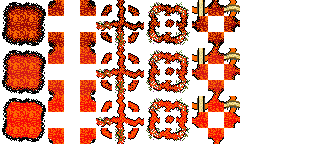
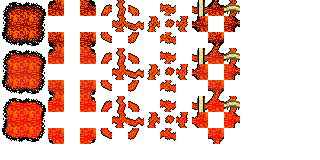
#78 - Added animations to lava rivers.

diff --git a/src/integration_test/TestLavaRivers.java b/src/integration_test/TestLavaRivers.java
@@ -1,11 +1,14 @@
 package integration_test;
 
+import antonafanasjew.cosmodog.domains.WeaponType;
 import antonafanasjew.cosmodog.globals.CosmodogModelHolder;
 import antonafanasjew.cosmodog.model.actors.Player;
 import antonafanasjew.cosmodog.model.actors.Vehicle;
+import antonafanasjew.cosmodog.model.inventory.BinocularsInventoryItem;
 import antonafanasjew.cosmodog.model.inventory.DebuggerInventoryItem;
 import antonafanasjew.cosmodog.model.inventory.InventoryItemType;
 import antonafanasjew.cosmodog.model.inventory.VehicleInventoryItem;
+import antonafanasjew.cosmodog.model.upgrades.Weapon;
 import antonafanasjew.cosmodog.player.AbstractPlayerBuilder;
 import antonafanasjew.cosmodog.player.PlayerBuilder;
 import org.newdawn.slick.SlickException;
@@ -22,6 +25,9 @@ public class TestLavaRivers {
 				player.setPositionY(174);
 				player.setMaxLife(100);
 				player.setLife(100);
+				player.getInventory().put(InventoryItemType.BINOCULARS, new BinocularsInventoryItem());
+				player.getArsenal().addWeaponToArsenal(new Weapon(WeaponType.MACHINEGUN));
+				player.getArsenal().addWeaponToArsenal(new Weapon(WeaponType.RPG));
 			}
 		};
 

diff --git a/src/antonafanasjew/cosmodog/resourcehandling/builder/animations/AnimationBuilder.java b/src/antonafanasjew/cosmodog/resourcehandling/builder/animations/AnimationBuilder.java
@@ -45,6 +45,7 @@ public class AnimationBuilder extends AbstractResourceWrapperBuilder<Animation> 
 		
 		animation.setAutoUpdate(autoUpdate);
 		animation.setLooping(looping);
+		animation.
 		
 		return animation;
 	}
